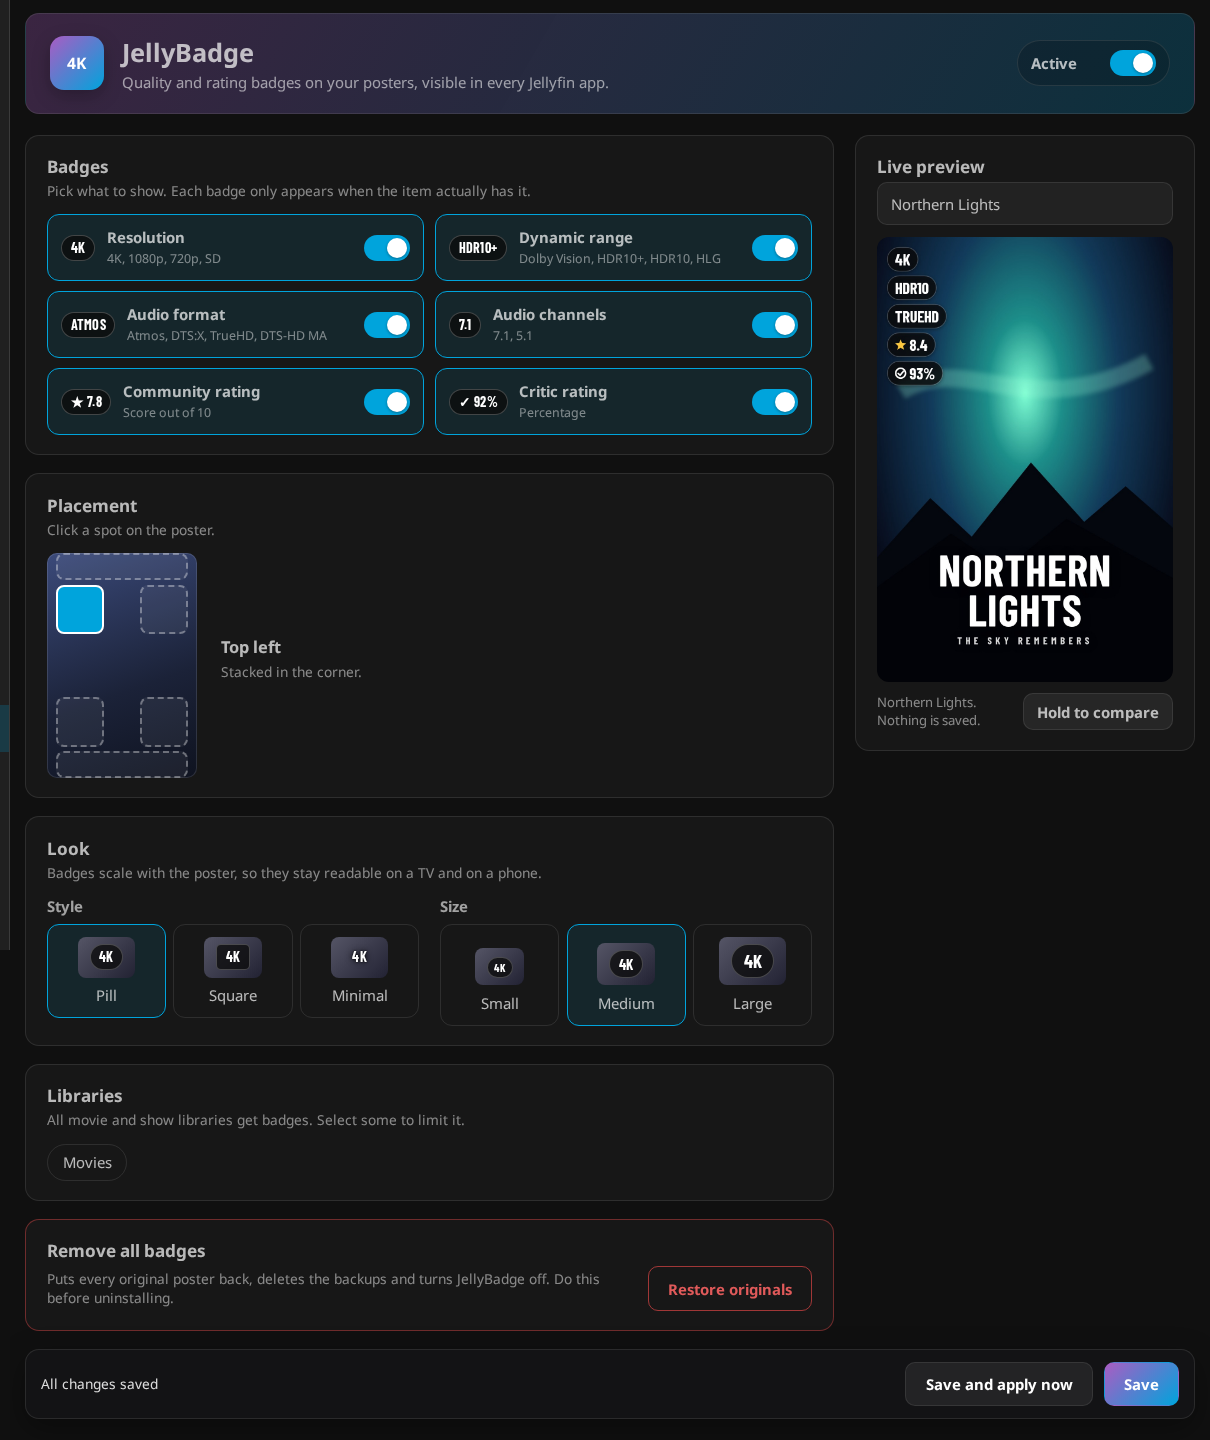
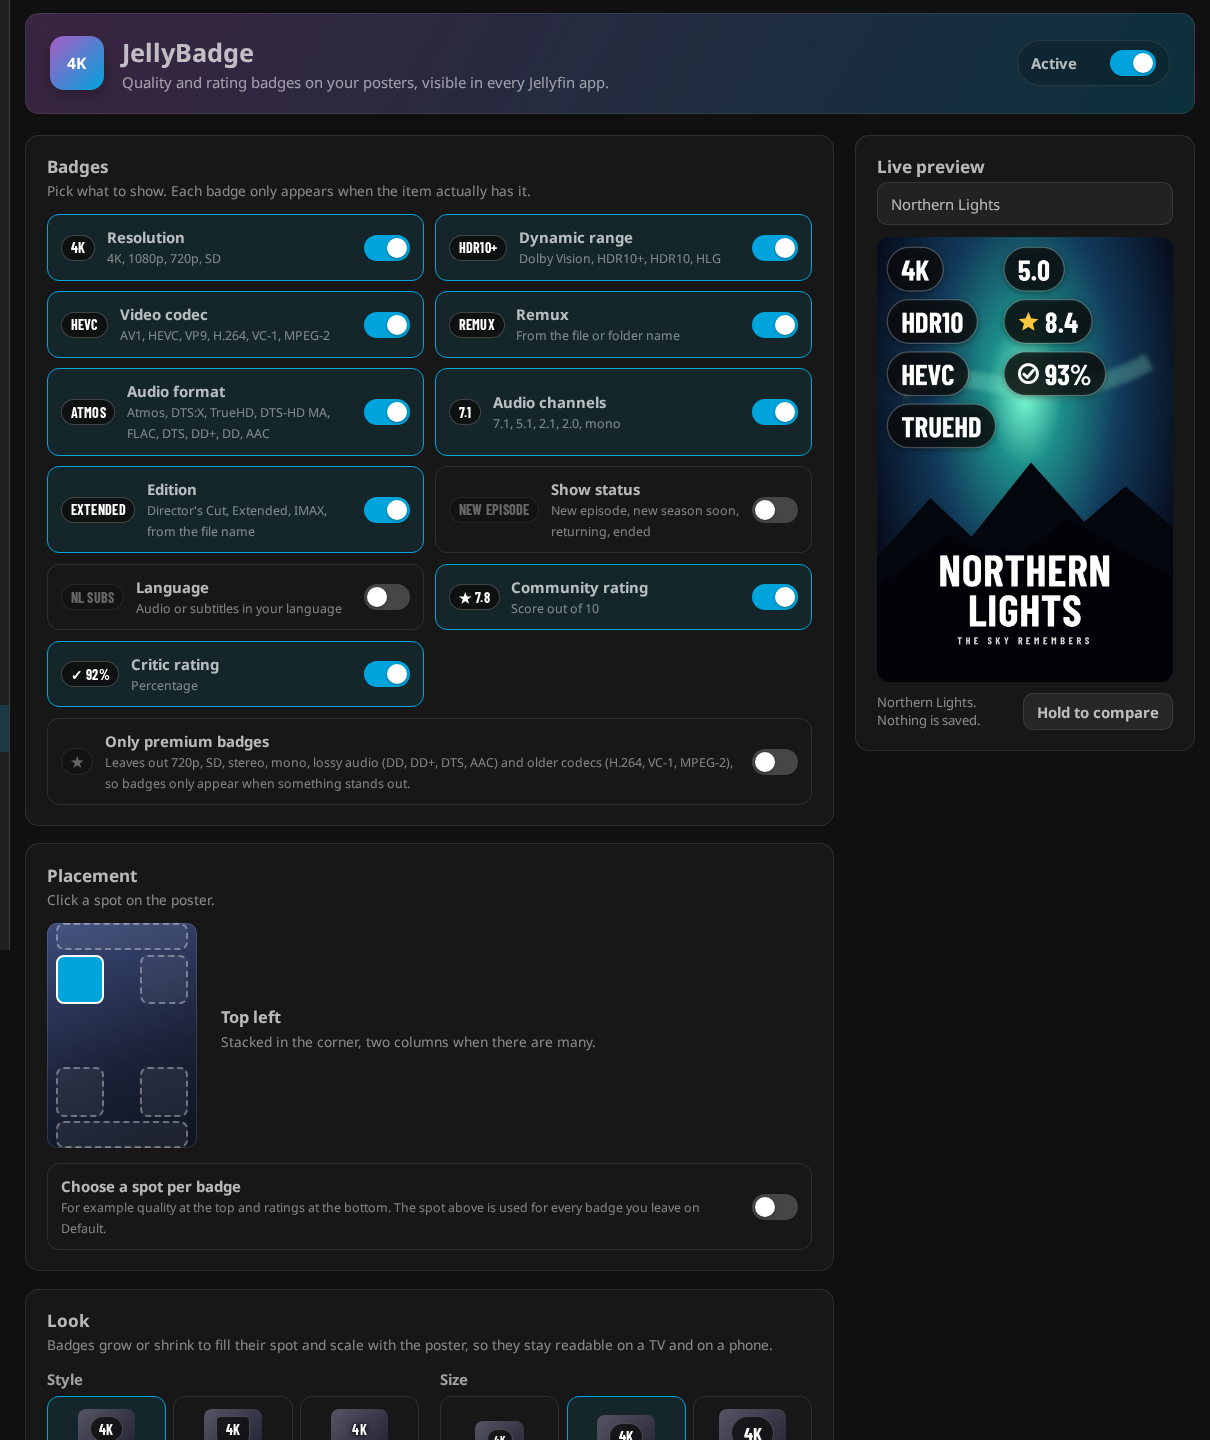
README and catalog text cover every new feature, fresh settings screenshot

diff --git a/README.md b/README.md
@@ -11,7 +11,7 @@
 
 <p align="center"><b>Quality and rating badges on your posters, stamped on the server, visible in every Jellyfin app.</b></p>
 
-JellyBadge adds clean badges like **4K**, **Dolby Vision**, **Atmos** and **★ 8.4** to your movie and series posters. The badges are drawn into the poster image itself, so they show up everywhere: the web app, phones, tablets and native TV apps such as Wholphin on Android TV. No themes, no CSS, no JavaScript, nothing to install on your devices.
+JellyBadge adds clean badges like **4K**, **Dolby Vision**, **Atmos**, **★ 8.4**, **NEW EPISODE** and **DIRECTOR'S CUT** to your movie and series posters. The badges are drawn into the poster image itself, so they show up everywhere: the web app, phones, tablets and native TV apps such as Wholphin on Android TV. No themes, no CSS, no JavaScript, nothing to install on your devices.
 
 **Know Kometa overlays from Plex?** JellyBadge brings the same idea to Jellyfin as a regular plugin: resolution, HDR, codec, audio and rating overlays on your posters, set up from the dashboard with a live preview. No scripts, no config files, no cron jobs.
 
@@ -41,13 +41,17 @@ JellyBadge adds clean badges like **4K**, **Dolby Vision**, **Atmos** and **★ 
 ## What you get
 
 - **Works in every client.** Badges are part of the poster, so every Jellyfin app shows them, including ones that never load custom styles.
-- **Smart detection.** Resolution, HDR format, audio format and channels come from your actual files. For movies with several versions, the best one wins. For series, the most common quality across the episodes is used.
+- **Smart detection.** Resolution, HDR format, codec, audio format and channel layout come from your actual files. For movies with several versions, the best one wins. For series, seasons and collections, the most common quality across the episodes or movies is used.
 - **Ratings at a glance.** Community score and critic score from your existing metadata.
+- **More than quality.** Optional badges for the edition (Director's Cut, Extended, IMAX), the show status (NEW EPISODE, SEASON 3 SOON, RETURNING, ENDED) and audio or subtitles in your own language.
+- **Only what stands out.** One switch leaves out everyday quality like 720p, stereo and H.264, so badges only appear on the special stuff.
+- **Your layout.** Pick one spot for all badges, or a spot per badge: quality top left, status top right, ratings along the bottom.
 - **Your originals are safe.** Every original poster is backed up before the first change, and one button puts them all back.
-- **Hands off.** New and updated items are badged automatically in the background, and a daily task keeps the whole library in sync. Library scans never wait on it.
-- **Keeps up with changes.** When a metadata refresh or an upload replaces a poster, JellyBadge treats the new one as the original and badges it again.
-- **Episodes too, if you like.** Switch on episode thumbnails and every episode gets its own quality and rating badges.
+- **Hands off.** New and updated items are badged automatically in the background. After library scans and metadata plugin tasks, and once a day, every poster is checked again. Library scans never wait on it.
+- **Keeps up with changes.** When a metadata refresh, an upload or another tool replaces a poster, JellyBadge treats the new one as the original and badges it again.
+- **Seasons, episodes and collections too, if you like.** Each has its own switch.
 - **Live preview.** See exactly how a poster will look before anything is written.
+- **Activity log.** The settings page shows what JellyBadge did and why, so you can see what happened overnight.
 
 ### Badges
 
@@ -109,10 +113,11 @@ Open **Dashboard > Plugins > JellyBadge**.
 
 <p align="center"><img src="docs/settings.png" alt="JellyBadge settings page" width="900" /></p>
 
-1. **Pick your badges.** Click a tile to switch a badge group on or off.
-2. **Choose the placement.** Click a spot on the little poster.
+1. **Pick your badges.** Click a tile to switch a badge group on or off. With **Language** on, pick your language in the list below the tiles. Switch on **Only premium badges** for a cleaner look.
+2. **Choose the placement.** Click a spot on the little poster. To give badges their own spots, switch on **Choose a spot per badge** and pick a spot in each row.
 3. **Choose a style and size.** The live preview updates as you go. Search any movie or series to try it on, and hold **Hold to compare** to see the original.
-4. **Switch it on.** Flip the switch at the top to **Active**, then click **Save and apply now**.
+4. **Choose what to badge.** Under **Libraries**, pick libraries and switch on season posters, episode thumbnails or collection posters if you want them.
+5. **Switch it on.** Flip the switch at the top to **Active**, then click **Save and apply now**.
 
 JellyBadge is off after installing, so nothing changes until you switch it on. Progress of the first run shows under **Dashboard > Scheduled Tasks > Apply poster badges**.
 
@@ -128,14 +133,17 @@ The **Activity** section on the same page lists what JellyBadge did recently and
 - Show the most common quality of a series or season, based on its episodes.
 - Badge episode thumbnails with the episode's own quality and rating, when you switch that on under **Libraries**. Switch it off again and the next run puts the original thumbnails back.
 - Badge collection posters with the most common quality of the movies in them, when you switch that on under **Libraries**.
-- Keep running by itself: new items, updated items and a daily check of everything.
+- Show the edition of a movie, the status of a series and a badge for audio or subtitles in your language.
+- Place each badge group in its own corner or strip.
+- Keep running by itself: new items, updated items, a check after library scans and metadata plugin tasks, and a daily check of everything.
 - Put every original poster back with one click.
 
 **It cannot**
 
-- Badge season posters, backdrops or logos. Only the main poster of movies, series and collections, and optionally the episode thumbnail, is changed.
+- Badge backdrops or logos. Only the main poster of movies, series, seasons and collections, and the episode thumbnail, is changed.
 - Tell a remux from an encode by the file itself. The Remux badge only shows when the file or its folder has "Remux" in the name.
 - Add custom badges, colors, logos of rating sites, or seasonal and decorative overlays.
+- Show SEASON SOON without upcoming episodes in Jellyfin. See the FAQ below.
 - Detect what Jellyfin does not know. Badges are based on the media info Jellyfin reads from your files, so if Jellyfin does not report Atmos or DTS:X for a file, there is no badge for it.
 - Say which site a rating came from. Jellyfin stores one community rating and one critic rating without a source, so the badges show a neutral star and check mark.
 - Run on Jellyfin 10.x.
@@ -199,7 +207,7 @@ It treats your new poster as the original, backs it up and adds badges to it. If
 <details>
 <summary><b>Will it slow down my server or library scans?</b></summary>
 
-No. Library events only add the item to a queue. The work happens in the background, two posters at a time by default, and items whose poster, settings and media did not change are skipped without even opening the image. New movies, shows and episodes are badged as soon as Jellyfin has their artwork, without waiting for the daily task.
+No. Library events only add the item to a queue. The work happens in the background, two posters at a time by default, and items whose poster, settings and media did not change are skipped without even opening the image. New movies, shows and episodes are badged as soon as Jellyfin has their artwork, without waiting for the daily task. Jellyfin's housekeeping tasks, like plugin updates and log cleanup, do not trigger a check.
 </details>
 
 <details>
@@ -212,6 +220,12 @@ In the plugin's data folder inside your Jellyfin data folder: `plugins/Jellyfin.
 <summary><b>Do episodes have ratings?</b></summary>
 
 Most do. Metadata providers such as TMDb and TheTVDB give each episode its own community score, so episode thumbnails get a star badge just like posters. Critic scores for single episodes are rare, so that badge usually stays away on episodes. Episodes that Jellyfin has no rating for simply get no rating badge.
+</details>
+
+<details>
+<summary><b>What rating does a season show?</b></summary>
+
+Seasons have no rating of their own in Jellyfin, so a season shows the series rating. Switch on **Season rating from its episodes** under **Season posters** to show the average of its rated episodes instead. Episodes without a rating are left out of that average.
 </details>
 
 <details>
